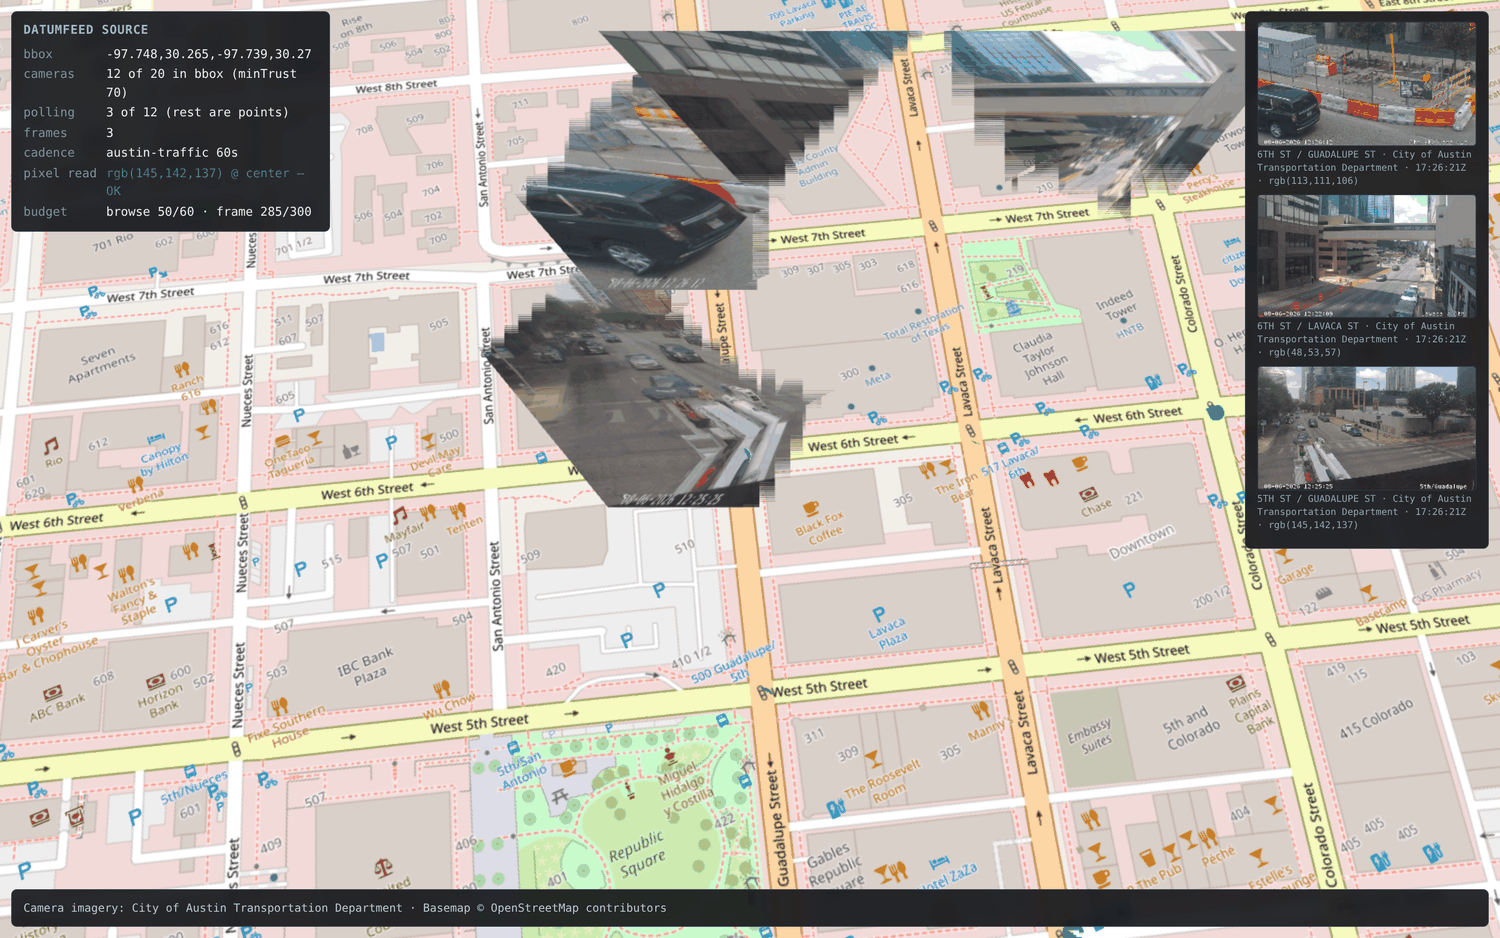
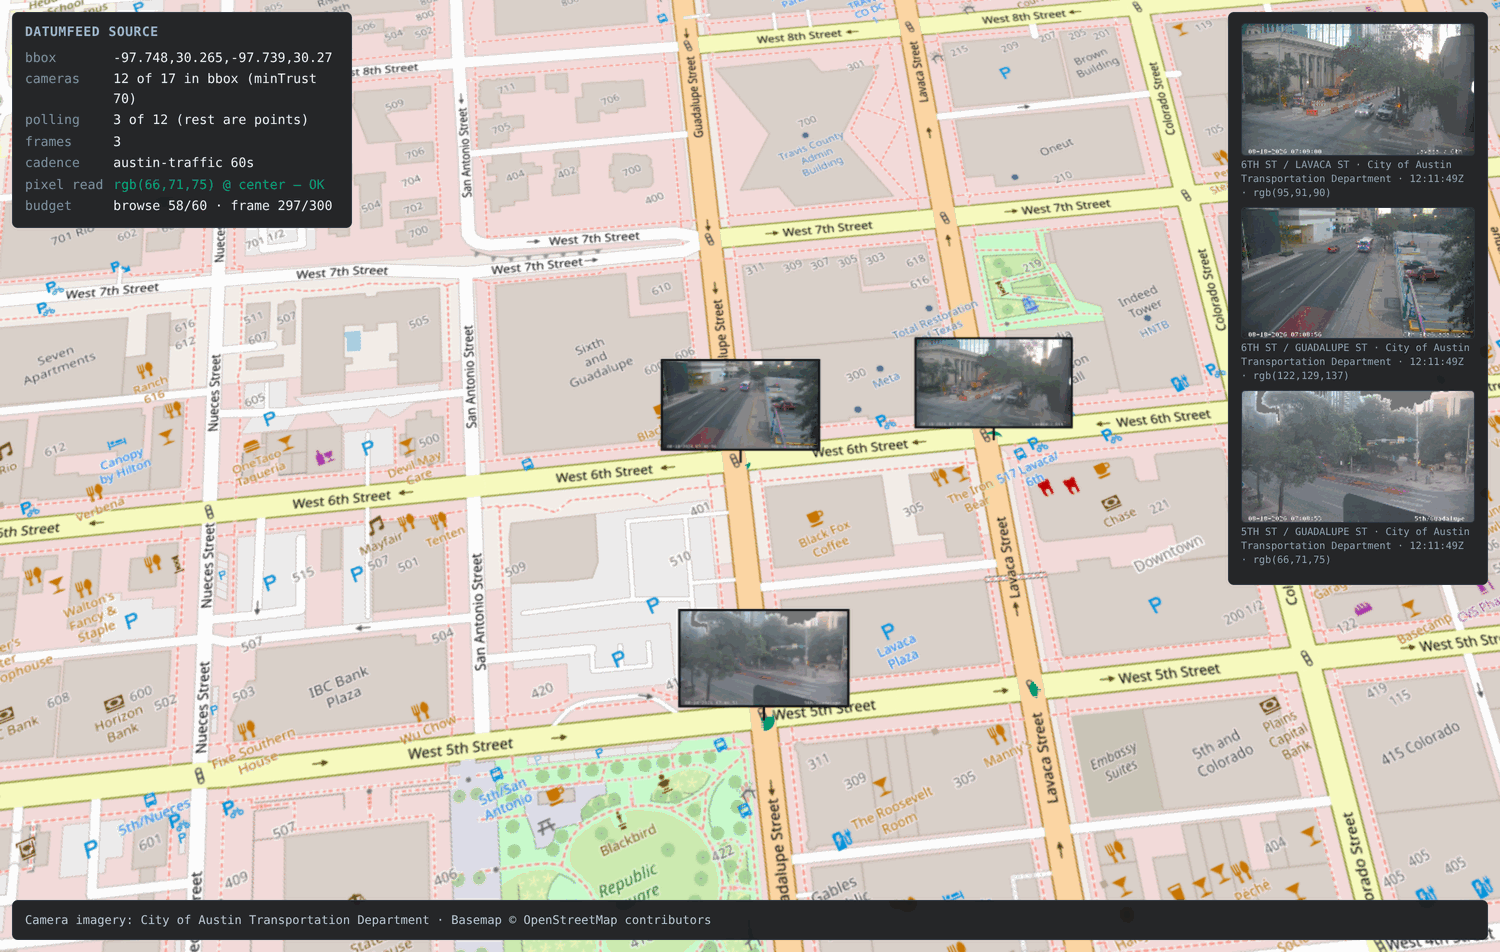
Stand camera frames upright on the map
These are street cameras: they look at facades, vehicles and people, all
of it vertical. Projecting that onto the ground smeared each frame along
the view axis, left the edges as jagged trapezoid seams, and turned three
cameras a block apart into overlapping sheets scattered across downtown.

Frames now draw as small upright cards — an IconLayer with billboard on,
one composited icon per camera, a hairline border and a short stem down to
the camera's position. They face the viewer at any pitch or bearing, so
the bearing fallback stops mattering: a card never has to guess which way
the camera points. Cards are composited at display size on a 2D canvas
first, where downsampling is area-averaged, rather than left to a
minifying texture fetch, which is most of what made the small imagery look
chewed.

The ground projection stays behind mode: 'footprint'. It is the honest
one for a top-down view, where there is no smear to speak of.

Still in the GL scene, not a DOM overlay — the frames are textures, which
is the thing worth proving about this API. New proof.png shot from the
demo against three live Austin cameras.

diff --git a/sources/datumfeed/deckgl-layers.js b/sources/datumfeed/deckgl-layers.js
@@ -5,8 +5,18 @@
  *
  * Two layers, both optional:
  *   - a ScatterplotLayer of camera positions, coloured by trust score
- *   - a BitmapLayer per live frame, projected onto the ground as a view
- *     footprint so the imagery sits in the scene instead of floating in a HUD
+ *   - one card per live frame, so the imagery sits in the scene instead of
+ *     floating in a HUD. Two ways to draw that card:
+ *       'billboard' (default) an IconLayer standing upright at the camera
+ *       'footprint'           a BitmapLayer projected onto the ground
+ *
+ * Billboards are the default because these cameras look at mostly vertical
+ * content — facades, vehicles, people — and laying that flat on the ground
+ * smears it along the view axis and leaves the frame's edges as jagged
+ * trapezoid seams. Upright cards keep the picture in its own plane, so it
+ * stays legible at any pitch. Reconsider if the app locks to a top-down view,
+ * where the footprint is the honest projection and the smear disappears;
+ * `mode: 'footprint'` keeps that path available.
  *
  * Peer dependency: `@deck.gl/layers`. The core client in `datumfeed-source.js`
  * imports nothing and works without deck.gl if you would rather draw frames
@@ -15,10 +25,15 @@
  * @module sources/datumfeed/deckgl-layers
  */
 
-import { BitmapLayer, ScatterplotLayer } from '@deck.gl/layers';
+import { BitmapLayer, IconLayer, ScatterplotLayer } from '@deck.gl/layers';
 
 const METERS_PER_DEG_LAT = 111320;
 const DEG = Math.PI / 180;
+
+// Cards are composited at display size times this, so the GPU samples the
+// texture at about 1:1 instead of minifying a 640 px frame down to 150 and
+// aliasing every edge. Capped: past 2x it is memory for nothing.
+const MAX_CARD_PIXEL_RATIO = 2;
 
 /**
  * Ground footprint for one camera, as the 4 corners a BitmapLayer wants:
@@ -78,6 +93,90 @@ export function footprintCorners(lat, lon, bearingDeg, shape) {
 }
 
 /**
+ * A 2D drawing surface, off-DOM where the platform has one.
+ *
+ * @param {number} width
+ * @param {number} height
+ * @returns {OffscreenCanvas|HTMLCanvasElement}
+ */
+function drawingSurface(width, height) {
+  if (typeof OffscreenCanvas === 'function') return new OffscreenCanvas(width, height);
+  const canvas = document.createElement('canvas');
+  canvas.width = width;
+  canvas.height = height;
+  return canvas;
+}
+
+/**
+ * Composite one frame into the card a billboard draws: the picture, a hairline
+ * border, and a short stem below it that lands on the camera's position, so the
+ * card reads as pinned there rather than hovering near it.
+ *
+ * The downscale to card size happens here, in 2D, rather than in the sampler.
+ * Canvas downsampling is area-averaged; a minifying texture fetch is not, and
+ * that difference is most of what makes small map imagery look chewed.
+ *
+ * @param {ImageBitmap} bitmap
+ * @param {{widthPx: number, borderPx: number, stemPx: number, borderColor: string}} card
+ * @returns {{image: ImageBitmap|HTMLCanvasElement|OffscreenCanvas, width: number, height: number, cssHeight: number}}
+ *   `width`/`height` are the composited image's own pixels, for the icon
+ *   mapping; `cssHeight` is what it should measure on screen.
+ */
+function billboardCard(bitmap, { widthPx, borderPx, stemPx, borderColor }) {
+  const pictureH = Math.max(1, Math.round((widthPx * bitmap.height) / bitmap.width));
+  const cssWidth = widthPx + 2 * borderPx;
+  const cssHeight = pictureH + 2 * borderPx + stemPx;
+
+  const ratio = Math.min(MAX_CARD_PIXEL_RATIO, globalThis.devicePixelRatio || 1);
+  const canvas = drawingSurface(Math.round(cssWidth * ratio), Math.round(cssHeight * ratio));
+  const ctx = canvas.getContext('2d');
+  ctx.scale(ratio, ratio);
+  ctx.imageSmoothingQuality = 'high';
+
+  // Border and stem are one fill: the picture is drawn inset over the plate, so
+  // the border is whatever is left showing at the edges.
+  ctx.fillStyle = borderColor;
+  ctx.fillRect(0, 0, cssWidth, pictureH + 2 * borderPx);
+  const stemW = Math.max(1, borderPx);
+  ctx.fillRect((cssWidth - stemW) / 2, pictureH + 2 * borderPx, stemW, stemPx);
+  ctx.drawImage(bitmap, borderPx, borderPx, widthPx, pictureH);
+
+  return {
+    // transferToImageBitmap where it exists: an ImageBitmap is the texture
+    // source every renderer accepts, and it releases the canvas as it goes.
+    image: canvas.transferToImageBitmap ? canvas.transferToImageBitmap() : canvas,
+    width: canvas.width,
+    height: canvas.height,
+    cssHeight
+  };
+}
+
+/**
+ * Keyed on the frame's own bitmap, which is a fresh object every time a frame
+ * lands — so a card is rebuilt exactly when the picture changes and not once
+ * per redraw, and the entry retires itself when the poller closes the frame.
+ * Weak so a closed frame takes its card with it.
+ *
+ * @type {WeakMap<ImageBitmap, {signature: string, card: ReturnType<typeof billboardCard>}>}
+ */
+const cardCache = new WeakMap();
+
+/**
+ * @param {ImageBitmap} bitmap
+ * @param {{widthPx: number, borderPx: number, stemPx: number, borderColor: string}} shape
+ * @returns {ReturnType<typeof billboardCard>}
+ */
+function cachedBillboardCard(bitmap, shape) {
+  const signature = `${shape.widthPx}|${shape.borderPx}|${shape.stemPx}|${shape.borderColor}`;
+  const hit = cardCache.get(bitmap);
+  if (hit && hit.signature === signature) return hit.card;
+
+  const card = billboardCard(bitmap, shape);
+  cardCache.set(bitmap, { signature, card });
+  return card;
+}
+
+/**
  * Okabe-Ito ramp: bluish green -> orange -> vermillion as trust falls.
  * Chosen to stay distinguishable for red/green colour vision deficiency, which
  * a red-to-green ramp would not.
@@ -107,29 +206,48 @@ function trustColor(trustScore) {
  *   here; the rest of `cameras` renders as points, which is the intended
  *   behaviour when a viewport holds more cameras than the frame budget allows.
  * @param {Object} [params.options]
+ * @param {'billboard'|'footprint'} [params.options.mode='billboard']
+ *   'billboard' stands each frame upright at its camera; 'footprint' lays it on
+ *   the ground as a view trapezoid, which is worth having for a top-down view
+ *   and misleading for anything else. See the module note.
  * @param {boolean} [params.options.showPoints=true]
- * @param {number} [params.options.nearM=40]   Distance from the camera to the
- *   near edge of the footprint, metres. Also sets how much the trapezoid flares.
- * @param {number} [params.options.lengthM=150] How far the footprint runs, metres.
- *   This is the size knob; width follows from the frame's aspect ratio.
- * @param {number} [params.options.opacity=0.92]
+ * @param {number} [params.options.widthPx=150] Billboard: card width on screen,
+ *   in pixels. Height follows from the frame's aspect ratio.
+ * @param {number} [params.options.borderPx=2] Billboard: border thickness.
+ * @param {number} [params.options.stemPx=12] Billboard: length of the stem from
+ *   the bottom of the card down to the camera position. 0 sits the card on it.
+ * @param {string} [params.options.borderColor='#0b0e12'] Billboard: border and
+ *   stem colour, as a CSS colour.
+ * @param {number} [params.options.nearM=40]   Footprint: distance from the
+ *   camera to the near edge, metres. Also sets how much the trapezoid flares.
+ * @param {number} [params.options.lengthM=150] Footprint: how far it runs,
+ *   metres. This is the size knob; width follows from the frame's aspect ratio.
+ * @param {number} [params.options.opacity] Defaults to 1 for billboards, which
+ *   are chrome and want to be crisp, and 0.92 for footprints, which sit on the
+ *   basemap and want to let it through.
  * @param {'viewport'|'north'|number} [params.options.bearingFallback='viewport']
- *   What to do when `camera.bearingDeg` is null — which, as of Aug 2026, is
- *   every camera in the catalogue. 'viewport' lays the footprint out along the
- *   current view direction so imagery stays upright and legible from any angle;
- *   'north' pins it; a number forces a fixed heading. Picks up the real bearing
- *   automatically the day the field is populated — no code change needed, the
- *   null check just stops firing.
+ *   Footprint only: what to do when `camera.bearingDeg` is null — which, as of
+ *   Aug 2026, is every camera in the catalogue. 'viewport' lays the footprint
+ *   out along the current view direction so imagery stays upright and legible
+ *   from any angle; 'north' pins it; a number forces a fixed heading. Picks up
+ *   the real bearing automatically the day the field is populated — no code
+ *   change needed, the null check just stops firing. Billboards never need it:
+ *   a card faces the viewer whatever the camera is pointed at.
  * @param {number} [params.options.viewportBearing=0] Current view bearing, for
  *   the 'viewport' fallback.
  * @returns {any[]} deck.gl layers
  */
 export function createDatumfeedLayers({ cameras, frames, options = {} }) {
   const {
+    mode = 'billboard',
     showPoints = true,
+    widthPx = 150,
+    borderPx = 2,
+    stemPx = 12,
+    borderColor = '#0b0e12',
     nearM = 40,
     lengthM = 150,
-    opacity = 0.92,
+    opacity = mode === 'billboard' ? 1 : 0.92,
     bearingFallback = 'viewport',
     viewportBearing = 0
   } = options;
@@ -149,6 +267,8 @@ export function createDatumfeedLayers({ cameras, frames, options = {} }) {
 
   if (showPoints) {
     layers.push(
+      // Every camera, polled or not: the unpolled ones are the whole point of
+      // the frame cap, and under a billboard the dot is what its stem lands on.
       new ScatterplotLayer({
         id: 'datumfeed-cameras',
         data: cameras,
@@ -170,16 +290,58 @@ export function createDatumfeedLayers({ cameras, frames, options = {} }) {
     const frame = frames.get(camera.id);
     if (!frame) continue;
 
+    // fetchedAt in the id retires the old texture when a fresh frame lands.
+    const id = `datumfeed-frame-${camera.id}-${frame.fetchedAt?.getTime() ?? 0}`;
+
+    if (mode === 'footprint') {
+      layers.push(
+        new BitmapLayer({
+          id,
+          image: frame.bitmap,
+          bounds: footprintCorners(camera.lat, camera.lon, bearingFor(camera), {
+            nearM,
+            lengthM,
+            aspect: frame.bitmap.width / frame.bitmap.height
+          }),
+          opacity,
+          pickable: true
+        })
+      );
+      continue;
+    }
+
+    const card = cachedBillboardCard(frame.bitmap, { widthPx, borderPx, stemPx, borderColor });
+
     layers.push(
-      new BitmapLayer({
-        // fetchedAt in the id retires the old texture when a fresh frame lands.
-        id: `datumfeed-frame-${camera.id}-${frame.fetchedAt?.getTime() ?? 0}`,
-        image: frame.bitmap,
-        bounds: footprintCorners(camera.lat, camera.lon, bearingFor(camera), {
-          nearM,
-          lengthM,
-          aspect: frame.bitmap.width / frame.bitmap.height
-        }),
+      new IconLayer({
+        id,
+        data: [camera],
+        getPosition: (d) => [d.lon, d.lat],
+        // One card per layer rather than one atlas for all of them: frames
+        // arrive and expire independently, and repacking a shared atlas on
+        // every arrival costs more than the extra draw calls do.
+        iconAtlas: card.image,
+        iconMapping: {
+          card: {
+            x: 0,
+            y: 0,
+            width: card.width,
+            height: card.height,
+            // Anchored at the tip of the stem, so that is what sits on the
+            // camera and the card stands above it.
+            anchorX: card.width / 2,
+            anchorY: card.height
+          }
+        },
+        getIcon: () => 'card',
+        sizeUnits: 'pixels',
+        getSize: card.cssHeight,
+        // The whole mode in one prop: upright and facing the viewer, whatever
+        // the map's pitch and bearing are doing.
+        billboard: true,
+        // Composited at display size already, so no mipmap chain to sample
+        // from — asking for one on a texture that has none renders black.
+        textureParameters: { minFilter: 'linear', magFilter: 'linear' },
         opacity,
         pickable: true
       })

diff --git a/sources/datumfeed/demo/index.html b/sources/datumfeed/demo/index.html
@@ -113,7 +113,8 @@ const deck = new Deck({
   parent: $('map'),
   initialViewState: VIEW,
   controller: true,
-  onViewStateChange: ({ viewState }) => { VIEW.bearing = viewState.bearing; redraw(); },
+  // No redraw on view change: billboards stay upright by construction, so
+  // nothing about the layers depends on where the camera is looking.
   layers: []
 });
 
@@ -142,8 +143,9 @@ function redraw() {
       ...createDatumfeedLayers({
         cameras,
         frames: poller.frames,
-        // bearingDeg is null on every camera today, so footprints follow the view.
-        options: { viewportBearing: VIEW.bearing, nearM: 85, lengthM: 140 }
+        // Upright cards pinned at each camera. These are street views of mostly
+        // vertical things, which is exactly what a ground projection ruins.
+        options: { mode: 'billboard', widthPx: 156 }
       })
     ]
   });

diff --git a/sources/datumfeed/README.md b/sources/datumfeed/README.md
@@ -1,21 +1,21 @@
 # Datumfeed source
 
 A data source for public traffic-camera feeds: fetch cameras by viewport, pull
-their current frames, project them onto the map.
+their current frames, put them on the map.
 
 [Datumfeed](https://datumfeed.com) is a free API that catalogues public camera
 registries, health-polls them, and scores each camera for trust. As of August
 2026 it lists **8,507 active cameras across 6 registries** — Austin, Caltrans,
 Ontario 511, Ottawa, TfL (London) and WSDOT. No key is needed to try it.
 
-![Three live downtown Austin cameras projected onto the map as ground footprints](demo/proof.png)
+![Three live downtown Austin cameras standing on the map as upright frame cards](demo/proof.png)
 
 ## Files
 
 | File | What it is |
 | --- | --- |
 | `datumfeed-source.js` | The client. Zero imports, no DOM assumptions — usable from any renderer. |
-| `deckgl-layers.js` | deck.gl binding: `BitmapLayer` ground footprints + a `ScatterplotLayer` of camera positions. |
+| `deckgl-layers.js` | deck.gl binding: an upright `IconLayer` card per live frame + a `ScatterplotLayer` of camera positions. |
 | `demo/index.html` | Standalone demo, no build step. Open it and it runs. |
 
 ## Quick start
@@ -39,7 +39,7 @@ const poller = new FramePoller(source, {
 const build = () => createDatumfeedLayers({
   cameras,                          // all of them, as points
   frames: poller.frames,            // only the polled ones have imagery
-  options: { viewportBearing: viewState.bearing }
+  options: { widthPx: 150 }         // upright cards; see "Configuration"
 });
 
 poller.setCameras(cameras, { center: CENTER });
@@ -131,7 +131,26 @@ uptime and freshness, and it composes.
 
 ```js
 createDatumfeedLayers({ cameras, frames, options: {
+  mode: 'billboard',          // the default
   showPoints: true,
+  widthPx: 150,               // card width on screen; height follows the frame
+  borderPx: 2,
+  stemPx: 12,                 // stem from the card down to the camera position
+  borderColor: '#0b0e12',
+  opacity: 1
+}});
+```
+
+Frames stand upright at their camera, facing the viewer at any pitch or
+bearing. That is the default because these cameras look at vertical things —
+facades, vehicles, people — and laying that flat on the ground smears it along
+the view axis and leaves the frame's edges as jagged trapezoid seams. The
+ground projection is still there for top-down views, where it is the honest
+one:
+
+```js
+createDatumfeedLayers({ cameras, frames, options: {
+  mode: 'footprint',
   nearM: 25,                  // distance to the near edge of the footprint
   lengthM: 150,               // how far it runs — the size knob
   opacity: 0.92,
@@ -154,11 +173,12 @@ rediscovered:
 - **`bearingDeg` is null on every camera** in all six registries today. The
   field exists but nothing populates it, so a footprint's orientation has to be
   chosen by the app. `bearingFallback: 'viewport'` lays each footprint along the
-  view direction, which keeps imagery upright from any angle; the day the field
-  is populated the real bearing is used automatically, no code change.
-- **Footprint width comes from the frame's own aspect ratio**, not an assumed
-  field of view. No registry publishes camera optics, and a guessed FOV only
-  ever stretches or squashes the picture.
+  view direction; the day the field is populated the real bearing is used
+  automatically, no code change. Upright cards never ask the question, which is
+  part of why they are the default.
+- **Card and footprint proportions come from the frame's own aspect ratio**,
+  not an assumed field of view. No registry publishes camera optics, and a
+  guessed FOV only ever stretches or squashes the picture.
 - **`minPollIntervalS` is only on `GET /api/registries`.** The `registry` object
   embedded in each camera omits it, so the cadence has to be fetched separately
   and cached. `datumfeed-source.js` does this once per process.
